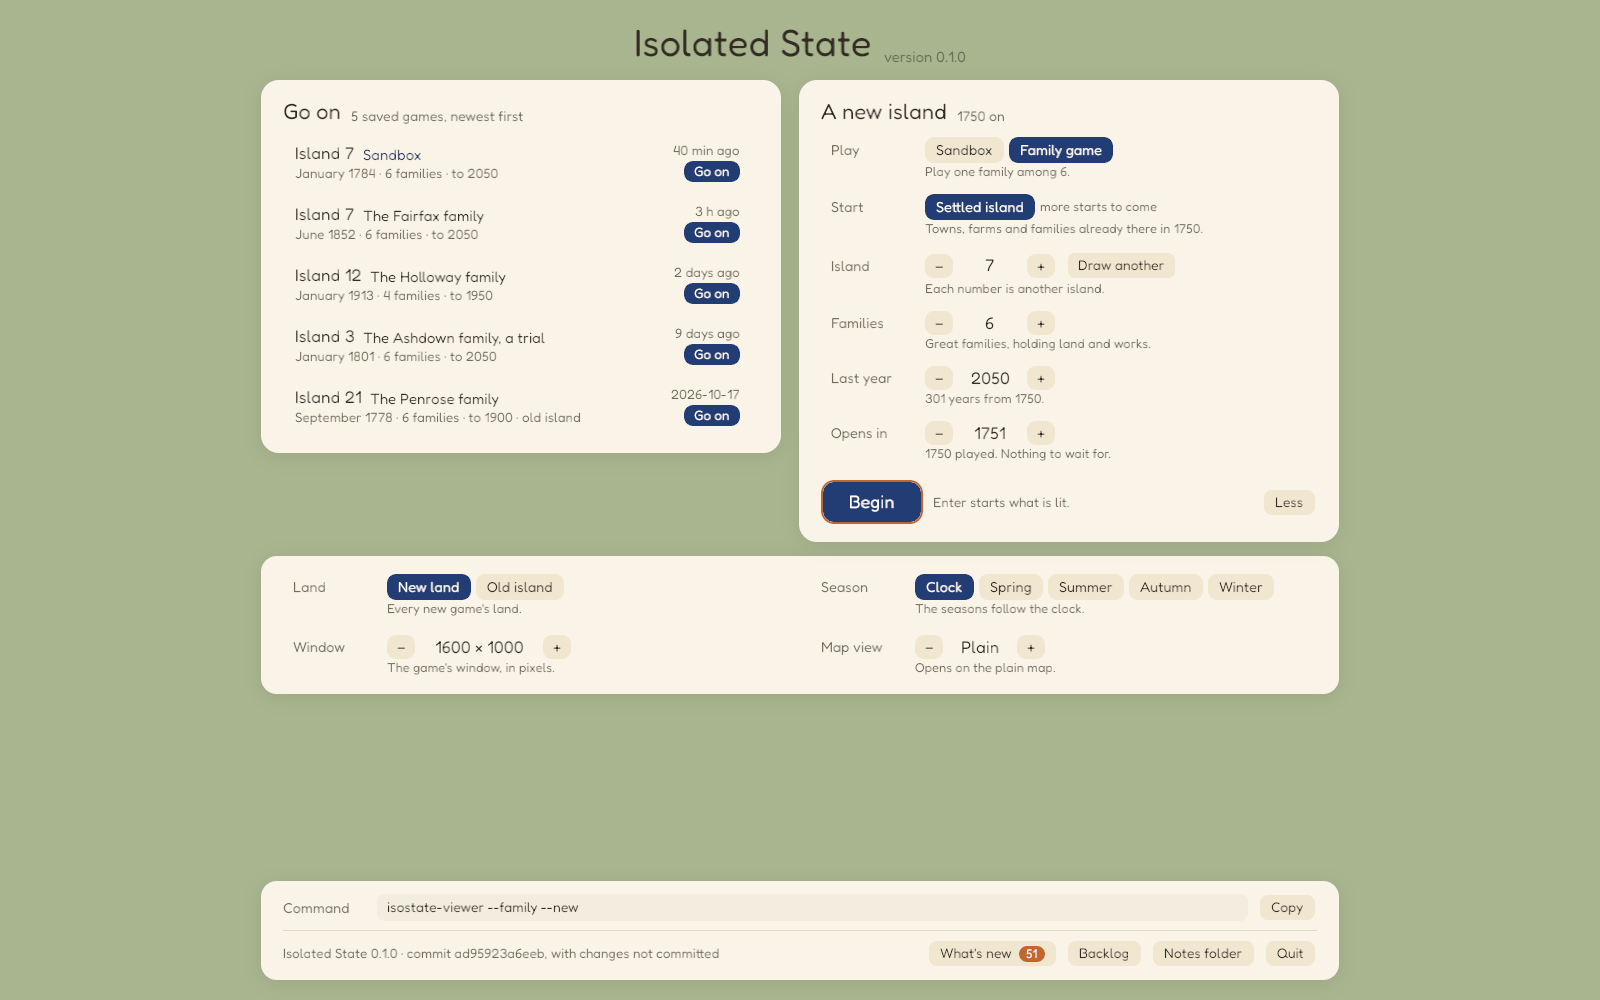
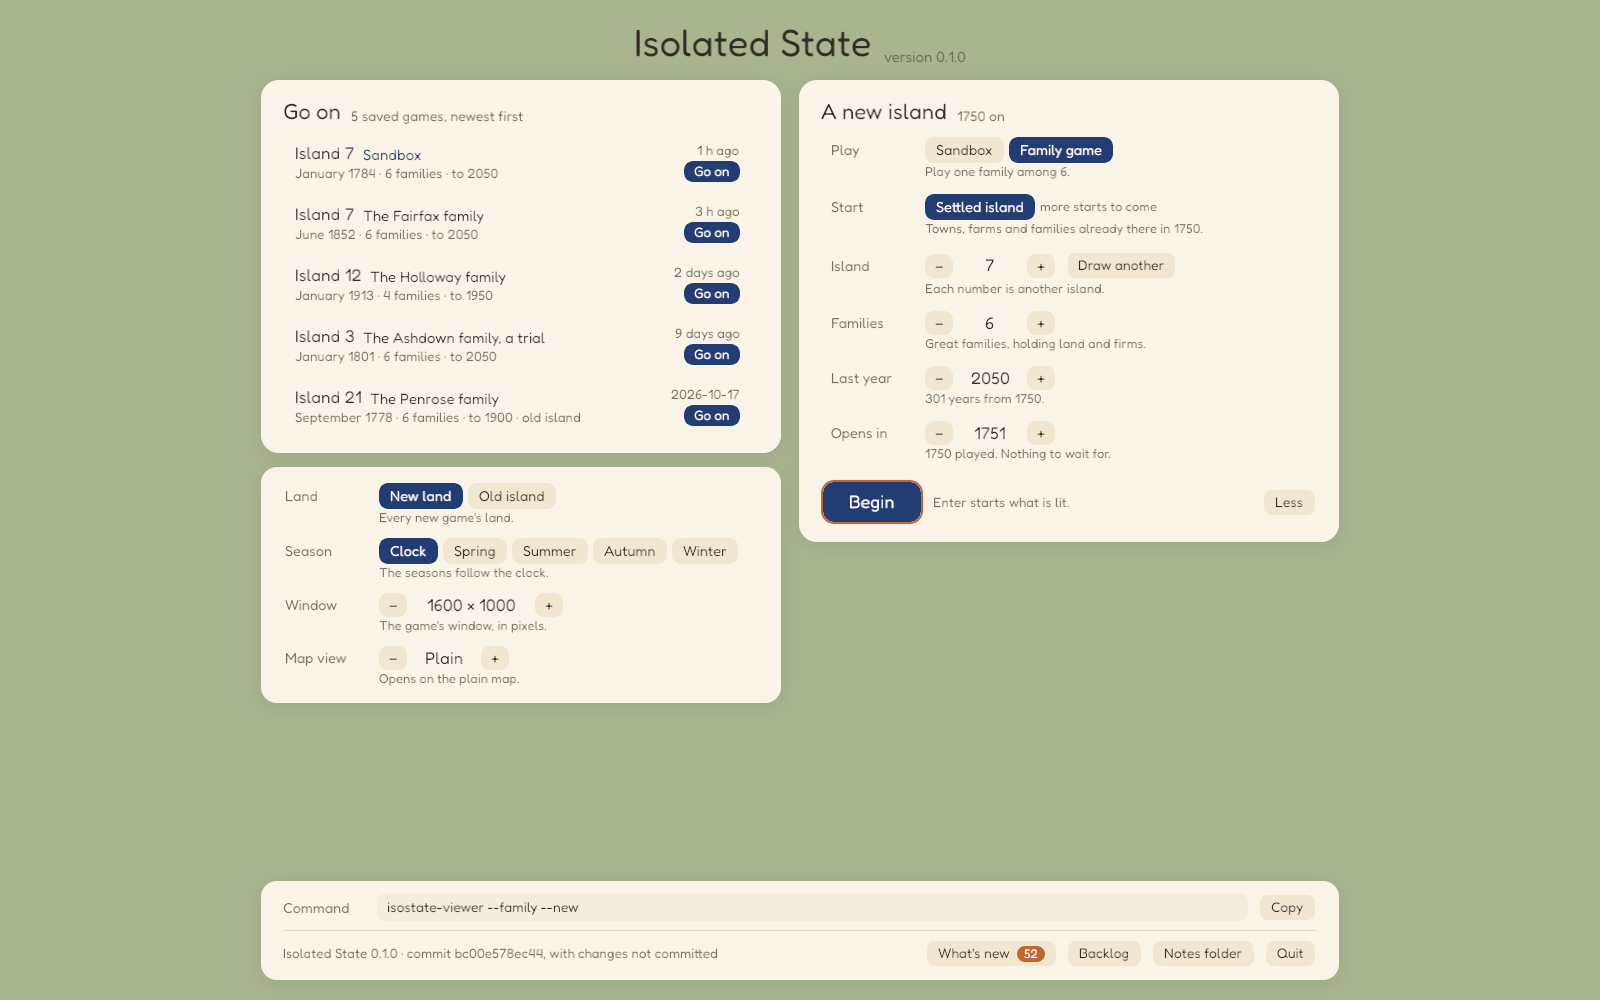
Viewer: More opens under the saved games, which scroll in what room the window leaves, so the foot stays on the screen in a window 720 high

Changed region(s): [[0.1562, 0.465, 0.8438, 0.713], [0.2812, 0.93, 0.4375, 0.961], [0.5938, 0.93, 0.6562, 0.961]]

diff --git a/crates/isostate-viewer/src/start_page.rs b/crates/isostate-viewer/src/start_page.rs
@@ -620,6 +620,33 @@ struct NewCount;
 /// The word on More's button: More, or Less while it is open.
 #[derive(Component)]
 struct MoreWord;
+/// The parts of the page whose heights decide how tall the list of saved games may be.
+#[derive(Component, Clone, Copy, PartialEq)]
+enum Fits {
+    Title,
+    GoOn,
+    Foot,
+}
+
+/// The saved games' card is as tall as the window leaves it, under More when
+/// More is open, so that the foot stays on the screen and the list scrolls.
+/// (A flex layout would do it, if a height shrunk by the flex could be shared
+/// out again: in Bevy's it cannot, so the room is worked out here.)
+fn fit(page: Res<Page>, cams: Query<&Camera>, parts: Query<(&Fits, &ComputedNode)>, more: Query<&ComputedNode, With<MoreCard>>, mut go_on: Query<(&Fits, &mut Node)>) {
+    let Some(view) = cams.iter().find_map(|c| c.logical_viewport_size()) else { return };
+    let height = |which: Fits| parts.iter().find(|(f, _)| **f == which).map_or(0.0, |(_, n)| n.size().y * n.inverse_scale_factor);
+    // the root's padding (20 above and below) and its three gaps of 14 between title, cards, room and foot
+    let mut room = view.y - 40.0 - 42.0 - height(Fits::Title) - height(Fits::Foot);
+    if page.more {
+        room -= more.iter().map(|n| n.size().y * n.inverse_scale_factor).fold(0.0, f32::max) + 14.0;
+    }
+    let want = Val::Px(room.max(120.0));
+    for (f, mut n) in &mut go_on {
+        if *f == Fits::GoOn && n.max_height != want {
+            n.max_height = want;
+        }
+    }
+}
 
 /// What the tooltips of Command and Go on say.
 pub const COMMAND_SAYS: &str = "This command line starts the same game as the page. Copy puts it on the clipboard. Any option on a command line skips the page.";
@@ -681,7 +708,7 @@ pub fn run(asked: Asked, t0: std::time::Instant) -> i32 {
         .add_plugins(crate::tips::plugin)
         // (after the pointer's own pass over the buttons, so that a button Enter presses stays pressed for the cards to see)
         .add_systems(PreUpdate, keys.after(bevy::input::InputSystems).after(bevy::ui::UiSystems::Focus).after(crate::tips::escape))
-        .add_systems(Update, (ui::button_colours, ui::row_colours, ui::wheel_lists, ui::scroll_thumbs, pointer, presses, draw, news_count, up_after, go).chain());
+        .add_systems(Update, (ui::button_colours, ui::row_colours, ui::wheel_lists, ui::scroll_thumbs, pointer, presses, draw, fit, news_count, up_after, go).chain());
     if let Some(p) = picture {
         app.insert_resource(Shooting { ask: p, frames: 0, image: None, asked_at: None, held: None });
         app.add_systems(Update, shoot.after(go));
@@ -718,24 +745,27 @@ fn spawn_page(commands: &mut Commands, f: &Handle<Font>, page: &Page) {
         ))
         .with_children(|root| {
             // the name of the game
-            root.spawn(Node { align_items: AlignItems::Baseline, column_gap: Val::Px(12.0), ..default() }).with_children(|t| {
+            root.spawn((Node { align_items: AlignItems::Baseline, column_gap: Val::Px(12.0), ..default() }, Fits::Title)).with_children(|t| {
                 t.spawn(ui::text(f, "Isolated State", 38.0, INK));
                 t.spawn(ui::text(f, &format!("version {}", crate::VERSION), 15.0, INK.with_alpha(0.7)));
             });
             // (each card as tall as what it holds; the saved games scroll when there are more than fit)
             root.spawn(Node { column_gap: Val::Px(18.0), flex_shrink: 1.0, min_height: Val::Px(0.0), align_items: AlignItems::FlexStart, ..default() }).with_children(|row| {
-                go_on_card(row, f, page, now);
+                // the saved games, and under them More, folded away: open, it takes the room the
+                // list gives up, and the list scrolls, so that the foot stays in a window 720 high
+                row.spawn(Node { flex_direction: FlexDirection::Column, row_gap: Val::Px(14.0), max_height: Val::Percent(100.0), min_height: Val::Px(0.0), ..default() }).with_children(|col| {
+                    go_on_card(col, f, page, now);
+                    col.spawn((
+                        ui::card(Node { display: Display::None, flex_direction: FlexDirection::Column, width: Val::Px(520.0), padding: UiRect::axes(Val::Px(14.0), Val::Px(10.0)), row_gap: Val::Px(0.0), border_radius: BorderRadius::all(Val::Px(16.0)), flex_shrink: 0.0, ..default() }),
+                        MoreCard,
+                    ))
+                    .with_children(|c| {
+                        for f2 in Field::MORE {
+                            field_row(c, f, f2);
+                        }
+                    });
+                });
                 new_card(row, f);
-            });
-            // More, folded away
-            root.spawn((
-                ui::card(Node { display: Display::None, flex_direction: FlexDirection::Row, flex_wrap: FlexWrap::Wrap, width: Val::Px(1078.0), max_width: Val::Percent(100.0), padding: UiRect::axes(Val::Px(22.0), Val::Px(12.0)), column_gap: Val::Px(28.0), row_gap: Val::Px(6.0), border_radius: BorderRadius::all(Val::Px(16.0)), flex_shrink: 0.0, ..default() }),
-                MoreCard,
-            ))
-            .with_children(|c| {
-                for f2 in Field::MORE {
-                    c.spawn(Node { width: Val::Px(500.0), ..default() }).with_children(|w| field_row(w, f, f2));
-                }
             });
             // the foot stands at the bottom of the window
             root.spawn(Node { flex_grow: 1.0, ..default() });
@@ -755,7 +785,8 @@ fn heading(p: &mut ChildSpawnerCommands, f: &Handle<Font>, title: &str, aside: &
 
 fn go_on_card(row: &mut ChildSpawnerCommands, f: &Handle<Font>, page: &Page, now: u64) {
     row.spawn((
-        ui::card(Node { flex_direction: FlexDirection::Column, width: Val::Px(520.0), max_height: Val::Percent(100.0), padding: UiRect::axes(Val::Px(22.0), Val::Px(18.0)), row_gap: Val::Px(4.0), border_radius: BorderRadius::all(Val::Px(18.0)), min_height: Val::Px(0.0), ..default() }),
+        ui::card(Node { flex_direction: FlexDirection::Column, width: Val::Px(520.0), padding: UiRect::axes(Val::Px(22.0), Val::Px(18.0)), row_gap: Val::Px(4.0), border_radius: BorderRadius::all(Val::Px(18.0)), min_height: Val::Px(0.0), ..default() }),
+        Fits::GoOn,
         RelativeCursorPosition::default(),
     ))
     .with_children(|c| {
@@ -904,7 +935,7 @@ fn lay_field(p: &mut ChildSpawnerCommands, f: &Handle<Font>, field: Field, c: &C
 }
 
 fn foot(root: &mut ChildSpawnerCommands, f: &Handle<Font>) {
-    root.spawn(ui::card(Node { flex_direction: FlexDirection::Column, width: Val::Px(1078.0), max_width: Val::Percent(100.0), padding: UiRect::axes(Val::Px(22.0), Val::Px(12.0)), row_gap: Val::Px(8.0), border_radius: BorderRadius::all(Val::Px(16.0)), flex_shrink: 0.0, ..default() })).with_children(|c| {
+    root.spawn((ui::card(Node { flex_direction: FlexDirection::Column, width: Val::Px(1078.0), max_width: Val::Percent(100.0), padding: UiRect::axes(Val::Px(22.0), Val::Px(12.0)), row_gap: Val::Px(8.0), border_radius: BorderRadius::all(Val::Px(16.0)), flex_shrink: 0.0, ..default() }), Fits::Foot)).with_children(|c| {
         // the command line that does the same
         c.spawn(Node { align_items: AlignItems::Center, column_gap: Val::Px(10.0), ..default() }).with_children(|row| {
             row.spawn(Node { width: Val::Px(84.0), flex_shrink: 0.0, ..default() }).with_children(|l| {
